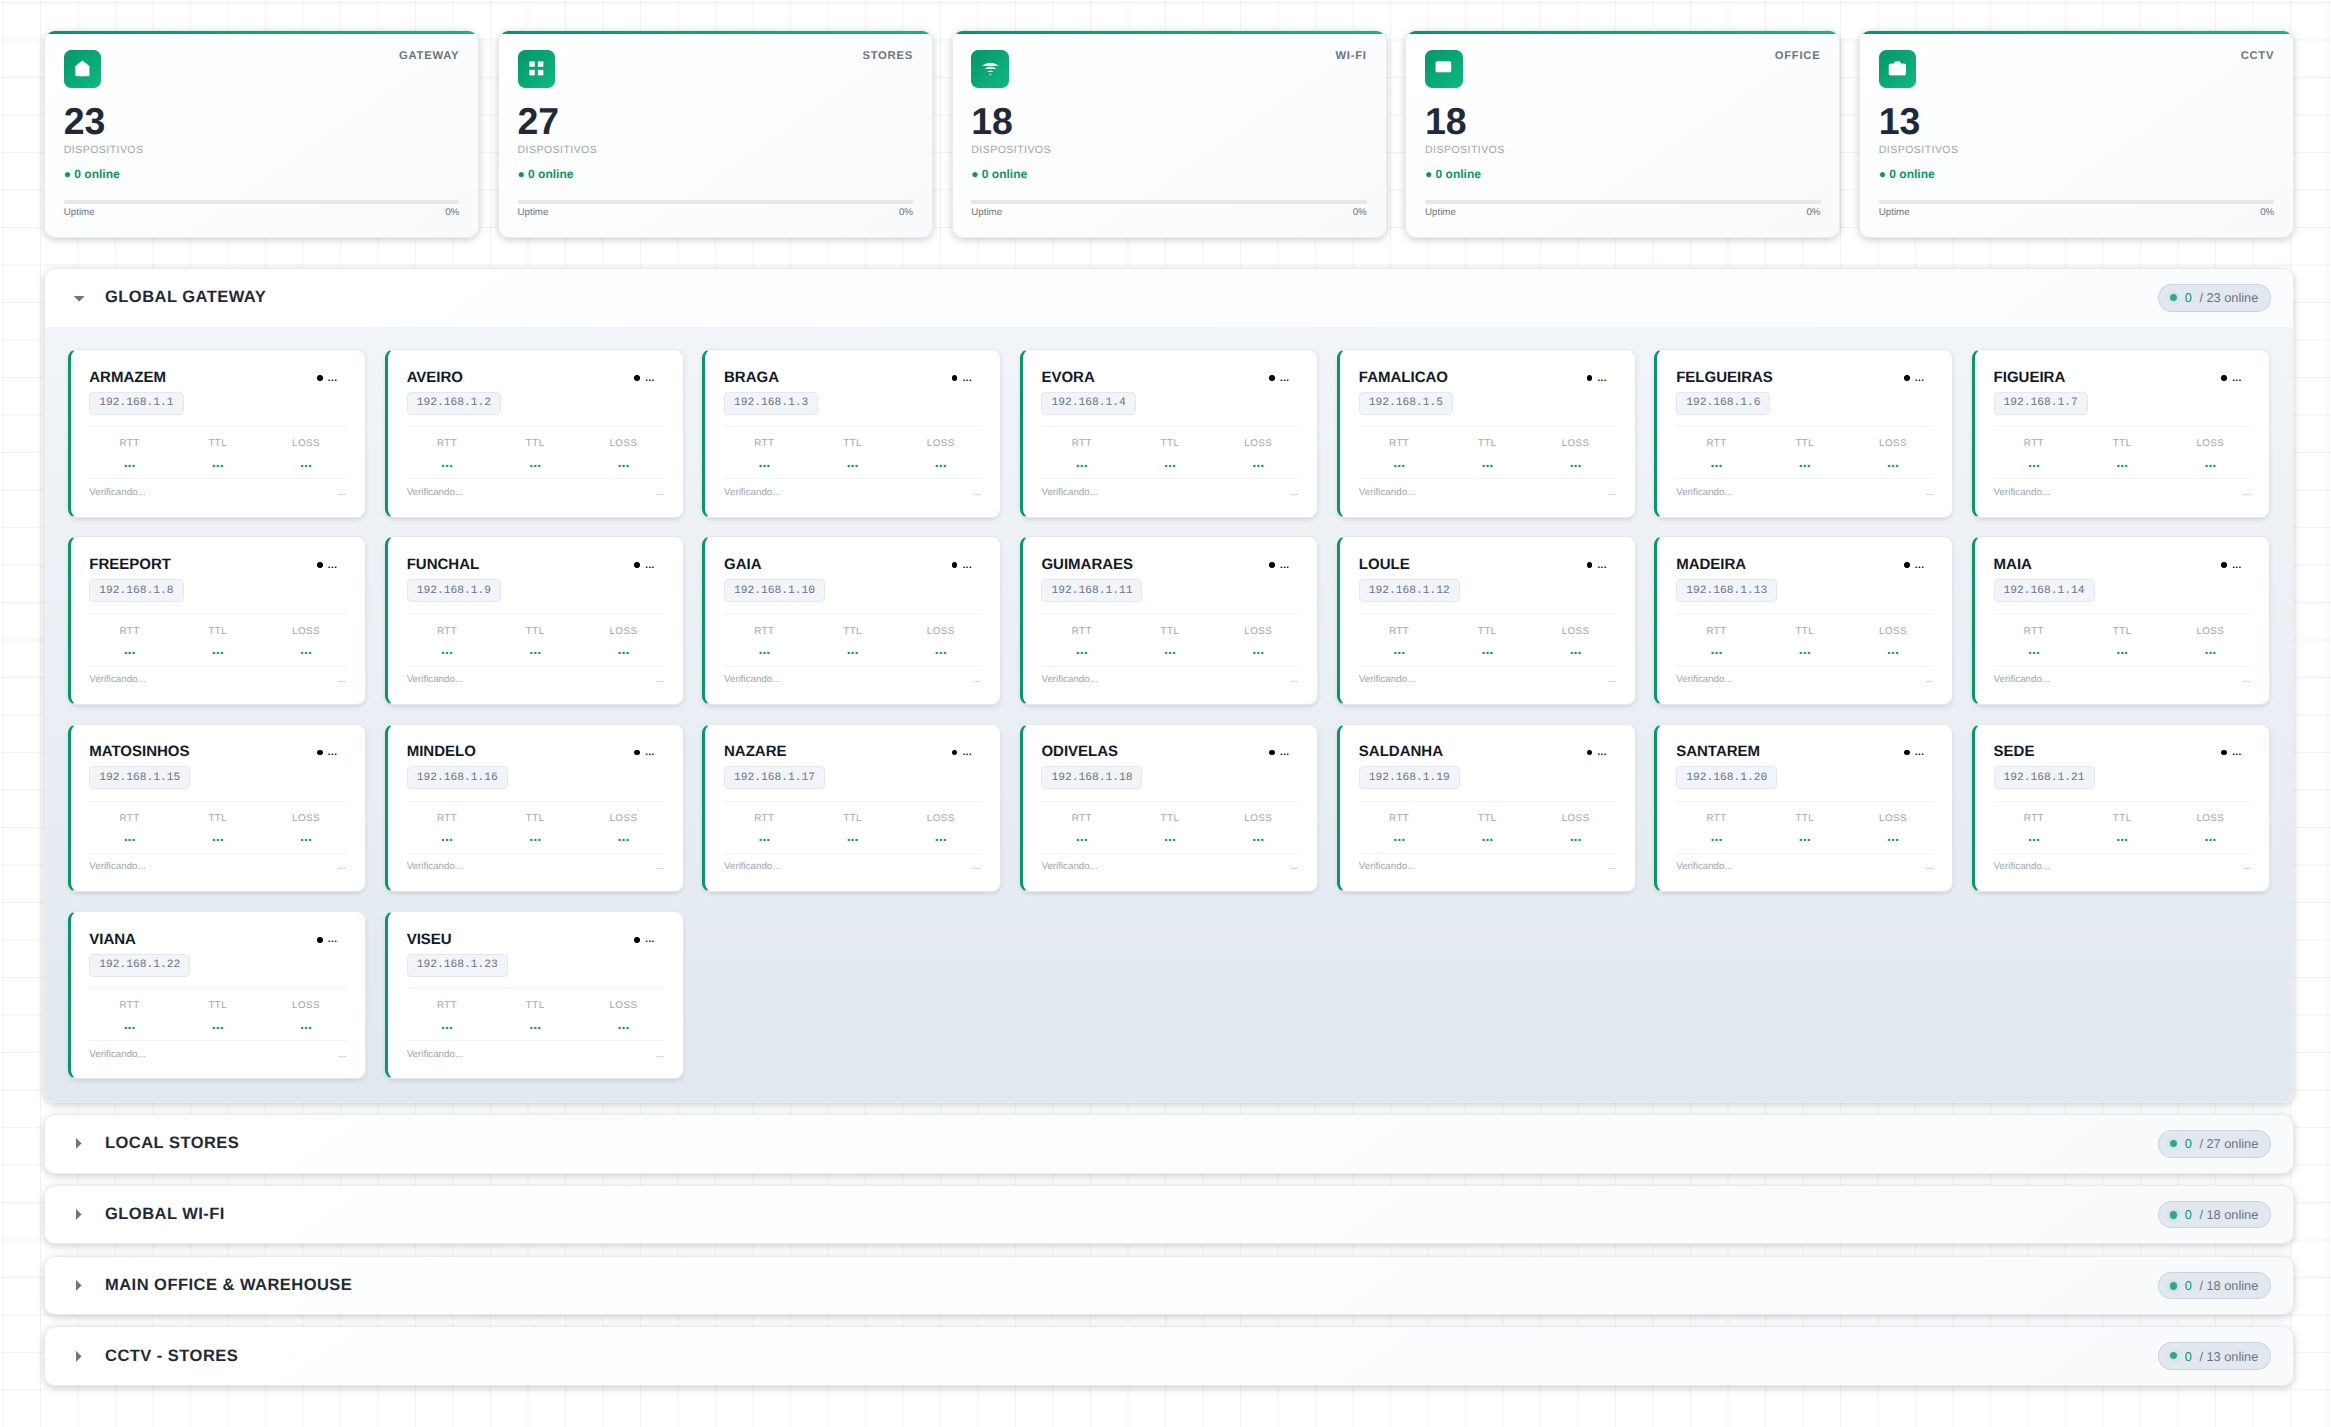
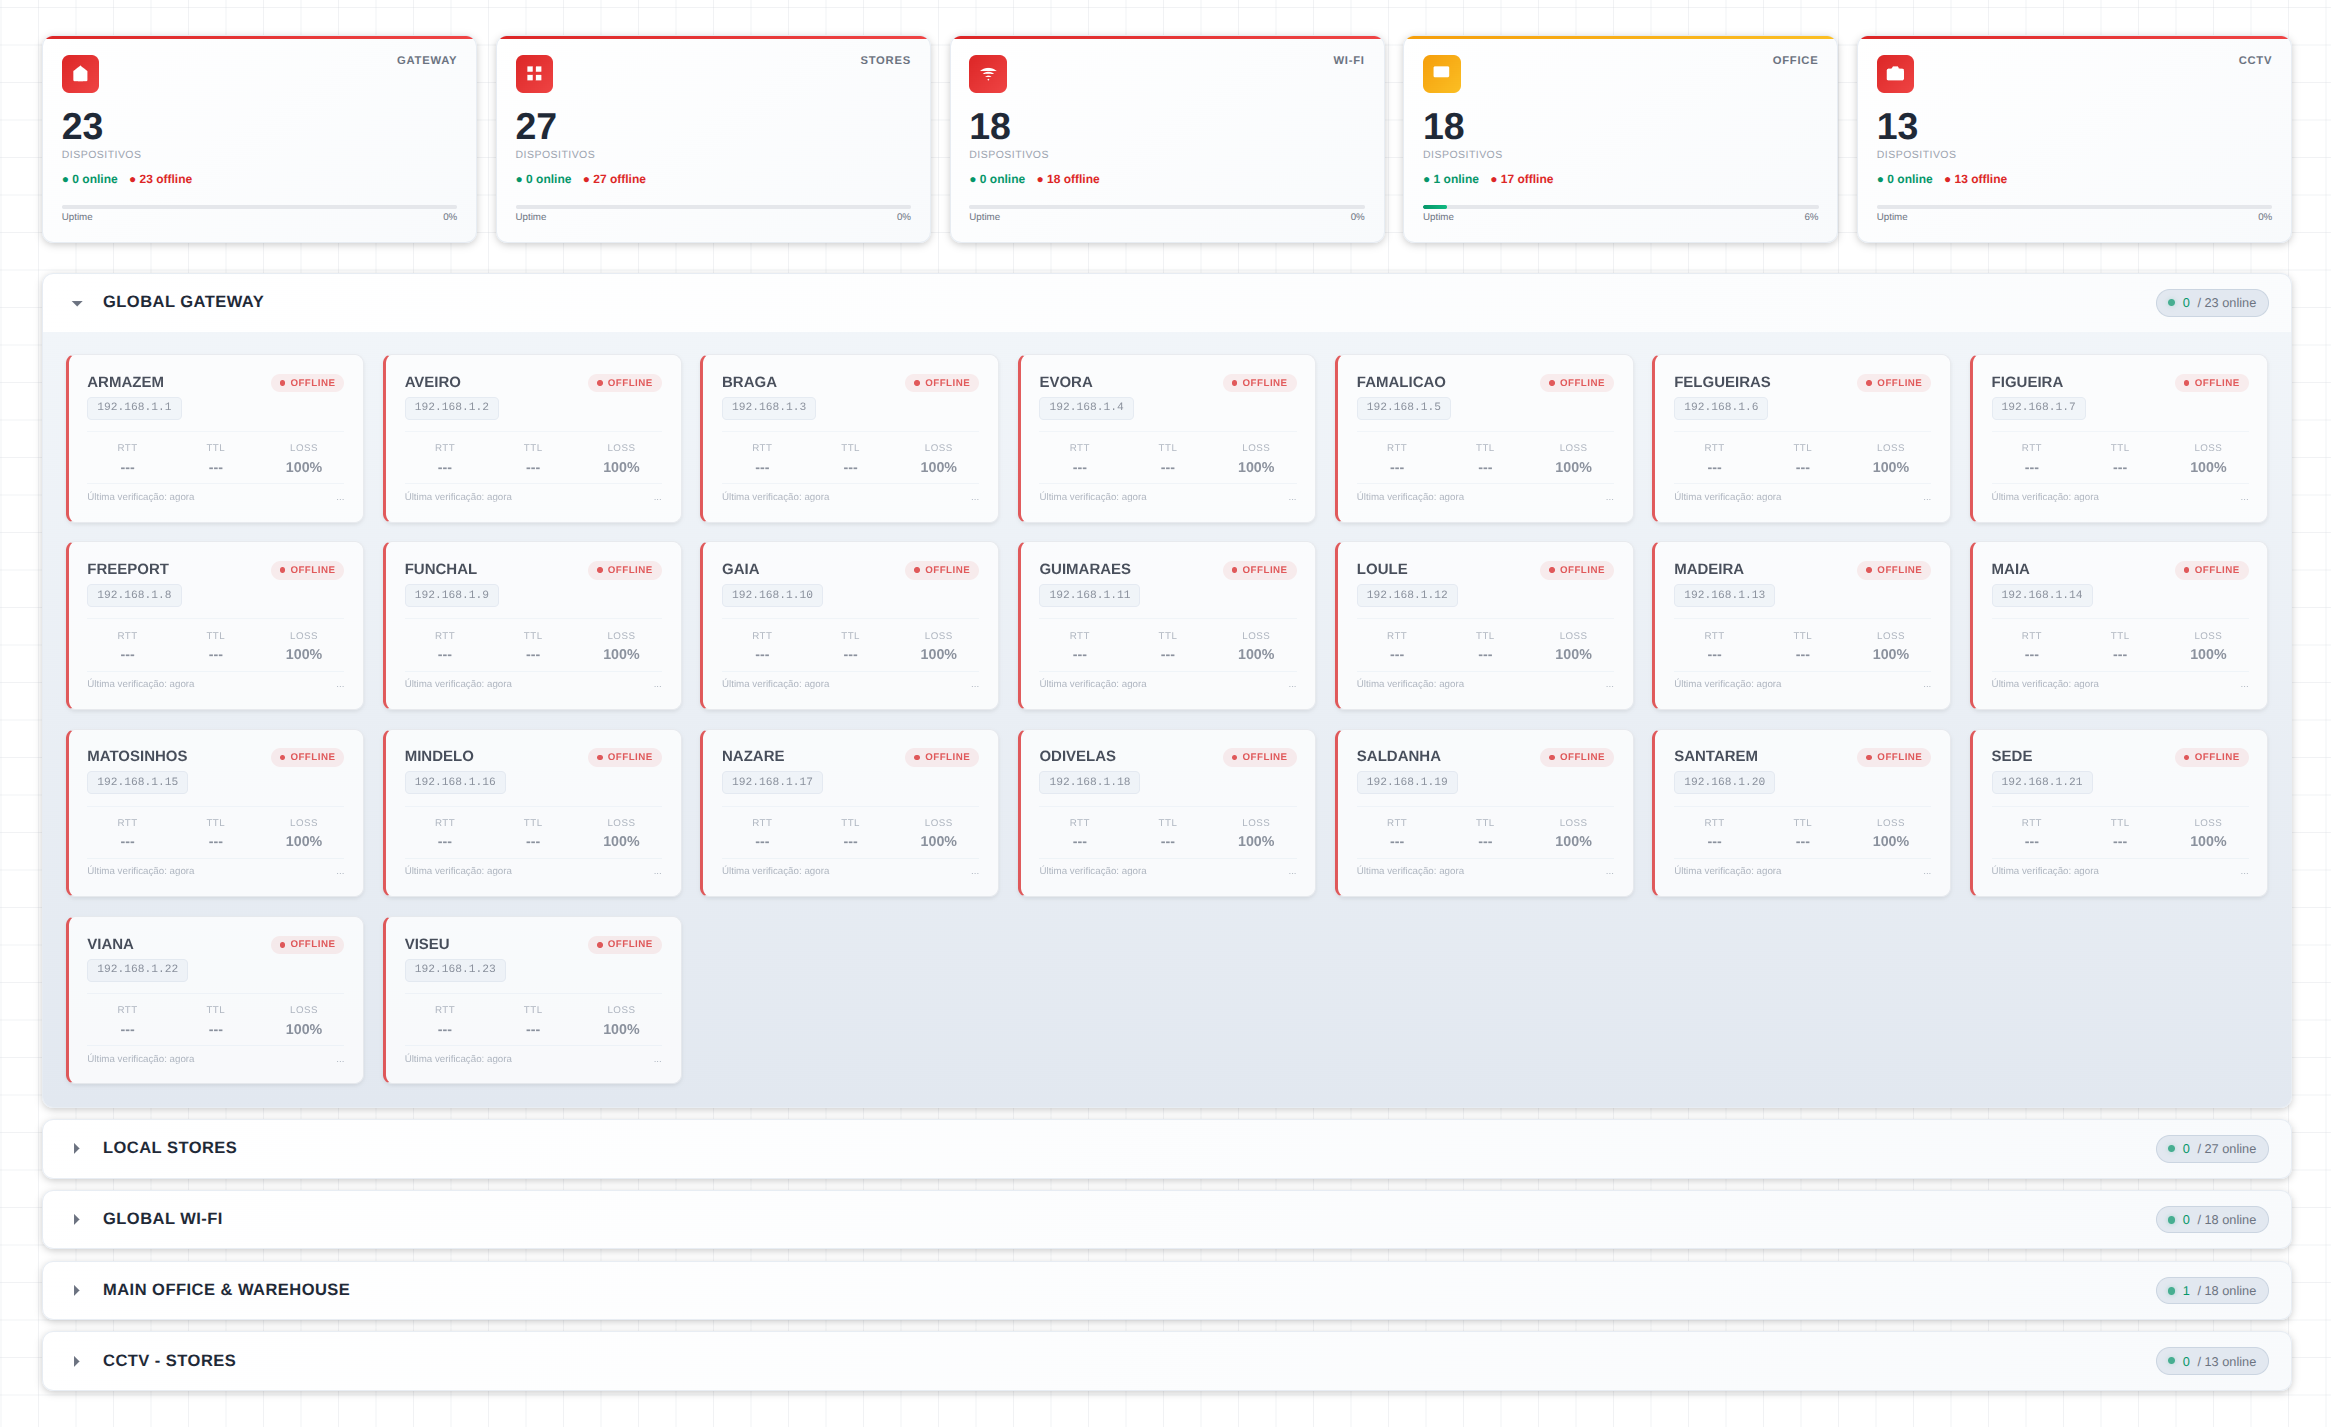
feat: improve ping reliability and packet loss detection
- Increase ICMP packets from 1 to 3 for better accuracy
- Extend timeout from 1.5s to 3s for high-latency connections
- Implement real packet loss calculation (0%, 33%, 66%, 100%)
- Fix ambiguous online/offline detection logic
- Use average RTT instead of single value (Linux)
- Update UI to display actual packet loss percentage
- Update screenshot with current dashboard state

diff --git a/js/script.js b/js/script.js
@@ -106,9 +106,21 @@ function updateCards(data) {
         const lossElem = document.getElementById('loss-' + item.ip);
         const lastCheckElem = document.getElementById('last-check-' + item.ip);
 
-        if (rttElem) rttElem.textContent = item.rtt !== null ? `${item.rtt} ms` : '---';
-        if (ttlElem) ttlElem.textContent = item.ttl !== null ? item.ttl : '---';
-        if (lossElem) lossElem.textContent = item.loss !== null ? `${item.loss}%` : '0%';
+        if (rttElem) {
+            if (item.rtt !== null && item.rtt !== 'N/A') {
+                rttElem.textContent = `${item.rtt} ms`;
+            } else {
+                rttElem.textContent = '---';
+            }
+        }
+        if (ttlElem) ttlElem.textContent = (item.ttl !== null && item.ttl !== 'N/A') ? item.ttl : '---';
+        if (lossElem) {
+            if (item.loss !== null && item.loss !== undefined) {
+                lossElem.textContent = `${item.loss}%`;
+            } else {
+                lossElem.textContent = '---';
+            }
+        }
         if (lastCheckElem) lastCheckElem.textContent = 'Última verificação: agora';
 
         if (item.status) {

diff --git a/ping.php b/ping.php
@@ -18,9 +18,9 @@ function getPingCommand($ip) {
     $os = strtoupper(PHP_OS);
 
     if (strpos($os, 'WIN') !== false) {
-        return "C:\\Windows\\System32\\ping.exe -n 1 -w 1500 " . escapeshellarg($ip);
+        return "C:\\Windows\\System32\\ping.exe -n 3 -w 3000 " . escapeshellarg($ip);
     } else {
-        return "ping -c 1 -W 1.5 " . escapeshellarg($ip);
+        return "ping -c 3 -W 3 " . escapeshellarg($ip);
     }
 }
 
@@ -52,42 +52,59 @@ function pingStatusSequential($ip) {
     $command = getPingCommand($ip);
 
     exec($command, $output, $returnCode);
-    
+
     $rtt = "N/A";
     $ttl = "N/A";
+    $loss = 100;
     $output_string = implode("\n", $output);
 
-    if (stripos($output_string, 'unreachable') !== false || 
-        stripos($output_string, 'timed out') !== false ||
-        stripos($output_string, 'could not find host') !== false) {
-        return ["ip" => $ip, "rtt" => "N/A", "ttl" => "N/A", "status" => false];
+    $matches_loss = [];
+    if (preg_match('/(\d+)%\s+(?:packet\s+)?loss/i', $output_string, $matches_loss)) {
+        $loss = intval($matches_loss[1]);
+    } elseif (preg_match('/Lost\s*=\s*(\d+)/i', $output_string, $matches_lost)) {
+        $lost = intval($matches_lost[1]);
+        $loss = ($lost * 100) / 3;
     }
-    
-    if ($returnCode === 0) {
+
+    if (stripos($output_string, 'unreachable') !== false ||
+        stripos($output_string, 'timed out') !== false ||
+        stripos($output_string, 'could not find host') !== false ||
+        $loss >= 100) {
+        return ["ip" => $ip, "rtt" => "N/A", "ttl" => "N/A", "loss" => 100, "status" => false];
+    }
+
+    if ($returnCode === 0 || $loss < 100) {
         $matches_rtt = [];
         $matches_ttl = [];
-        
+
         if (preg_match('/time[=<](.+?)ms/i', $output_string, $matches_rtt)) {
             $rtt_value_str = str_replace(['<', '='], '', $matches_rtt[1]);
             $rtt_val = floatval($rtt_value_str);
-            
+
             if ($rtt_val < 1 && $rtt_val > 0) {
-                $rtt = "<1 ms";
+                $rtt = "<1";
             } else {
-                $rtt = number_format($rtt_val, 0) . ' ms';
+                $rtt = number_format($rtt_val, 0);
             }
         }
-        
+
+        if (preg_match('/rtt.*=.*\/(.+?)\/.*\//i', $output_string, $matches_avg)) {
+            $rtt_val = floatval($matches_avg[1]);
+            if ($rtt_val < 1 && $rtt_val > 0) {
+                $rtt = "<1";
+            } else {
+                $rtt = number_format($rtt_val, 0);
+            }
+        }
+
         if (preg_match('/TTL=(\d+)/i', $output_string, $matches_ttl)) {
             $ttl = $matches_ttl[1];
         }
-        
-        if ($rtt !== "N/A") {
-            return ["ip" => $ip, "rtt" => $rtt, "ttl" => $ttl, "status" => true];
-        }
+
+        return ["ip" => $ip, "rtt" => $rtt, "ttl" => $ttl, "loss" => $loss, "status" => true];
     }
-    
-    return ["ip" => $ip, "rtt" => "N/A", "ttl" => "N/A", "status" => false];
+
+    return ["ip" => $ip, "rtt" => "N/A", "ttl" => "N/A", "loss" => 100, "status" => false];
 }
 
 function pingBatchParallel($ips_batch) {
@@ -101,9 +118,9 @@ function pingBatchParallel($ips_batch) {
             1 => ["pipe", "w"],
             2 => ["pipe", "w"]
         ];
-        
+
         $process = proc_open($command, $descriptors, $pipes);
-        
+
         if (is_resource($process)) {
             fclose($pipes[0]);
             $processes[$ip] = [
@@ -113,55 +130,70 @@ function pingBatchParallel($ips_batch) {
             ];
         }
     }
-    
+
     foreach ($processes as $ip => $proc_data) {
         $output = stream_get_contents($proc_data['stdout']);
         $error = stream_get_contents($proc_data['stderr']);
-        
+
         fclose($proc_data['stdout']);
         fclose($proc_data['stderr']);
-        
+
         $return_code = proc_close($proc_data['process']);
-        
+
         $rtt = "N/A";
         $ttl = "N/A";
-        
-        if (stripos($output, 'unreachable') !== false || 
+        $loss = 100;
+
+        $matches_loss = [];
+        if (preg_match('/(\d+)%\s+(?:packet\s+)?loss/i', $output, $matches_loss)) {
+            $loss = intval($matches_loss[1]);
+        } elseif (preg_match('/Lost\s*=\s*(\d+)/i', $output, $matches_lost)) {
+            $lost = intval($matches_lost[1]);
+            $loss = ($lost * 100) / 3;
+        }
+
+        if (stripos($output, 'unreachable') !== false ||
             stripos($output, 'timed out') !== false ||
-            stripos($output, 'could not find host') !== false) {
-            $results[] = ["ip" => $ip, "rtt" => "N/A", "ttl" => "N/A", "status" => false];
+            stripos($output, 'could not find host') !== false ||
+            $loss >= 100) {
+            $results[] = ["ip" => $ip, "rtt" => "N/A", "ttl" => "N/A", "loss" => 100, "status" => false];
             continue;
         }
-        
-        if ($return_code === 0) {
+
+        if ($return_code === 0 || $loss < 100) {
             $matches_rtt = [];
             $matches_ttl = [];
-            
+
             if (preg_match('/time[=<](.+?)ms/i', $output, $matches_rtt)) {
                 $rtt_value_str = str_replace(['<', '='], '', $matches_rtt[1]);
                 $rtt_val = floatval($rtt_value_str);
-                
+
                 if ($rtt_val < 1 && $rtt_val > 0) {
-                    $rtt = "<1 ms";
+                    $rtt = "<1";
                 } else {
-                    $rtt = number_format($rtt_val, 0) . ' ms';
+                    $rtt = number_format($rtt_val, 0);
                 }
             }
-            
+
+            if (preg_match('/rtt.*=.*\/(.+?)\/.*\//i', $output, $matches_avg)) {
+                $rtt_val = floatval($matches_avg[1]);
+                if ($rtt_val < 1 && $rtt_val > 0) {
+                    $rtt = "<1";
+                } else {
+                    $rtt = number_format($rtt_val, 0);
+                }
+            }
+
             if (preg_match('/TTL=(\d+)/i', $output, $matches_ttl)) {
                 $ttl = $matches_ttl[1];
             }
-            
-            if ($rtt !== "N/A") {
-                $results[] = ["ip" => $ip, "rtt" => $rtt, "ttl" => $ttl, "status" => true];
-            } else {
-                $results[] = ["ip" => $ip, "rtt" => "N/A", "ttl" => "N/A", "status" => false];
-            }
+
+            $results[] = ["ip" => $ip, "rtt" => $rtt, "ttl" => $ttl, "loss" => $loss, "status" => true];
         } else {
-            $results[] = ["ip" => $ip, "rtt" => "N/A", "ttl" => "N/A", "status" => false];
+            $results[] = ["ip" => $ip, "rtt" => "N/A", "ttl" => "N/A", "loss" => 100, "status" => false];
         }
     }
-    
+
     return $results;
 }
 
